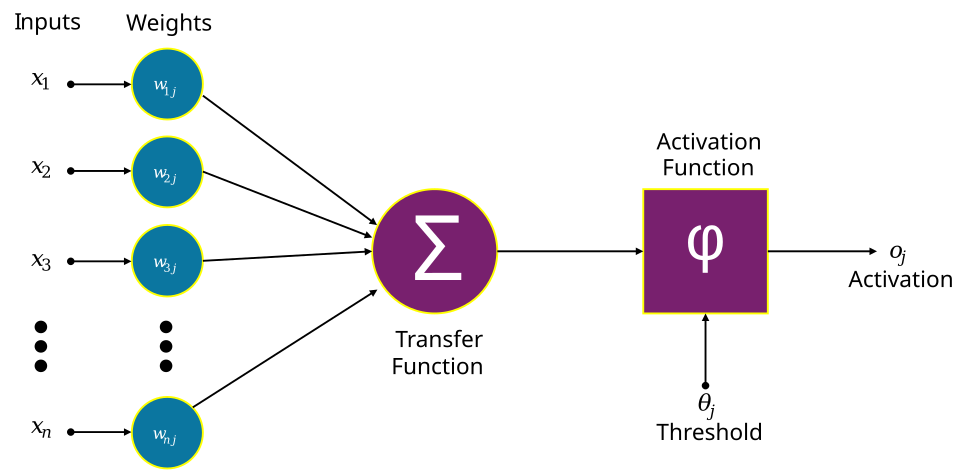
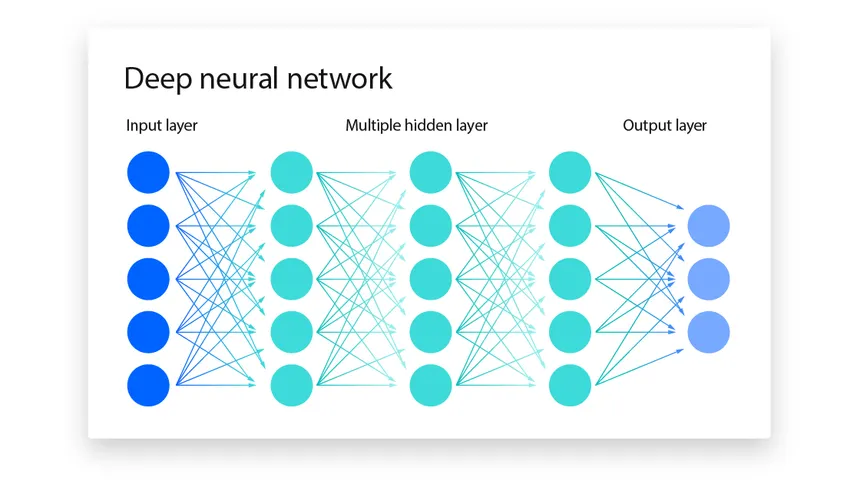
UPDATED

diff --git a/README.md b/README.md
@@ -1,6 +1,6 @@
 # DEEP LEARNING 101
 
-## Overview of Deep Learning
+## Overview of Deep Learning
 
 * Fundamentals
 * Applications & Scenerios of used for
@@ -24,16 +24,15 @@ DL works like a human brain therefore,The term "deep" refers to the numerous lay
 
 
 
-<img src="./src/image2.png" style="background-color: white" alt="alt text">   
 
 _The design of the artificial neuron was inspired by biological neural circuitry._
 
-### Artifical Neuron Network 
+## Artifical Neuron Network 
 
-
-<img src="./src/image3.png" style="background-color: white" alt="alt text">   
 
 _A neural network consists of connected units or nodes called artificial neurons, which loosely model the neurons in the brain.These are connected by edges, which model the synapses in the brain. Each artificial neuron receives signals from connected neurons, then processes them and sends a signal to other connected neurons. The "signal" is a real number, and the output of each neuron is computed by some non-linear function of the totality of its inputs, called the activation function. The strength of the signal at each connection is determined by a weight, which adjusts as part of the training process._
+
+![alt text](./src/image2.png)
 
 * ### Input Layer
     **Each neuron in this layer corresponds to a specific feature in the dataset, such as a pixel value in an image or a variable in a table, simply passing the information to the next layer.**
@@ -41,3 +40,18 @@ _A neural network consists of connected units or nodes called artificial neurons
   **Hidden layers sit between the input and output layers and perform the complex computations that allow the network to learn patterns. These layers transform input data into meaningful representations using weighted sums, bias terms, and activation functions like ReLU or Sigmoid. A network with multiple hidden layers is often referred to as a deep neural network, capable of learning hierarchical abstractions.**
 * ### Output Layer
   **The output layer is the final stage that produces the model’s predictions or classifications. The number of neurons in this layer depends on the task; for example, it may have one neuron for regression, two for binary classification, or multiple neurons for multi-class classification using functions like Softmax.**
+
+
+### How Is It Work ?
+
+
+![alt text](./src/image3.png)
+
+**Input data: The model processes training data such as images, text or audio.
+Prediction: The network generates an output or prediction.
+Error calculation: The prediction is compared to the correct answer and the difference is measured as a loss.
+Parameter updates: The model adjusts its internal parameters to reduce that error.
+Deep learning networks can contain millions or even billions of parameters, making it impossible to manually determine how each connection contributes to prediction errors. Instead, training relies on mathematical optimization techniques such as backpropagation and gradient descent to determine how the model's parameters should be updated.**
+
+
+![alt text](./src/image4.png)
